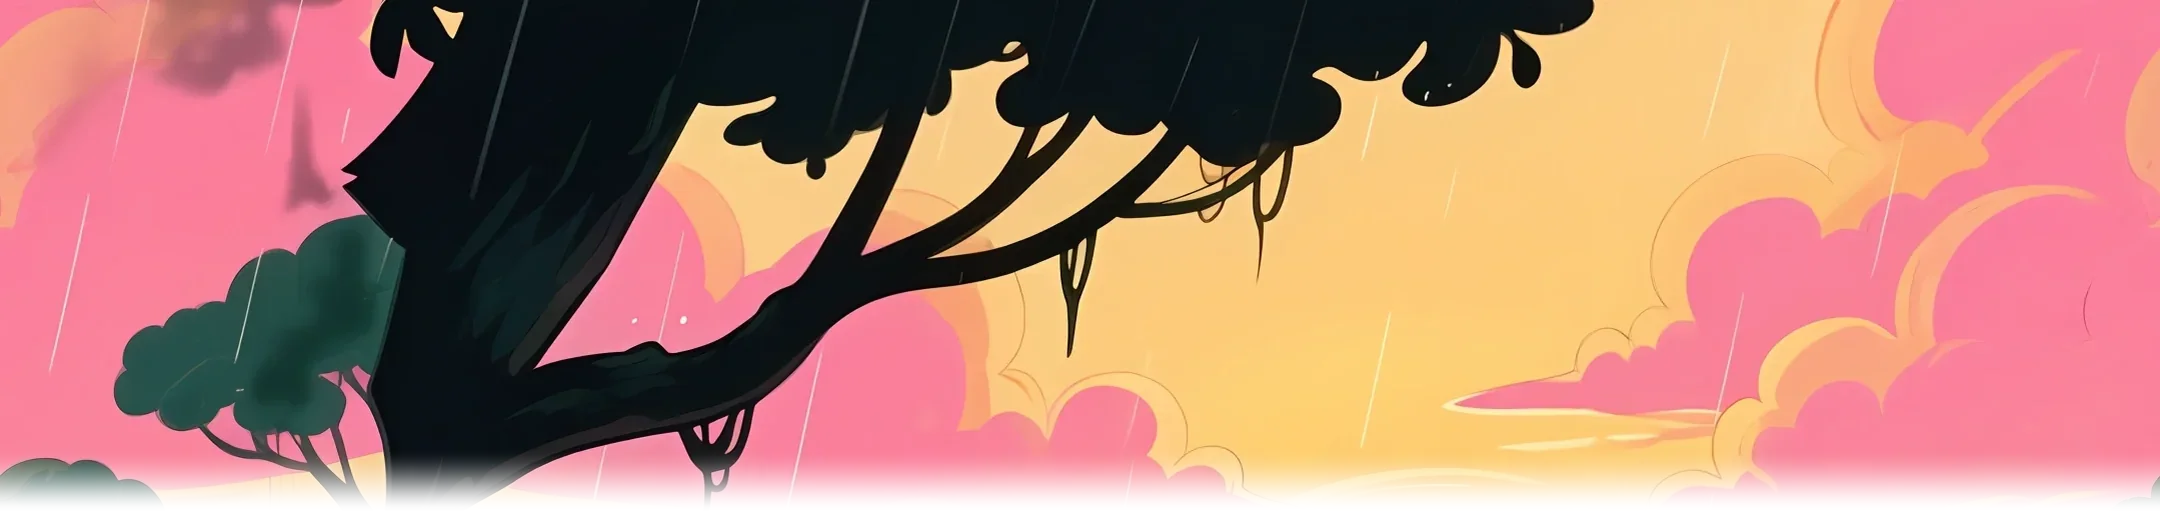
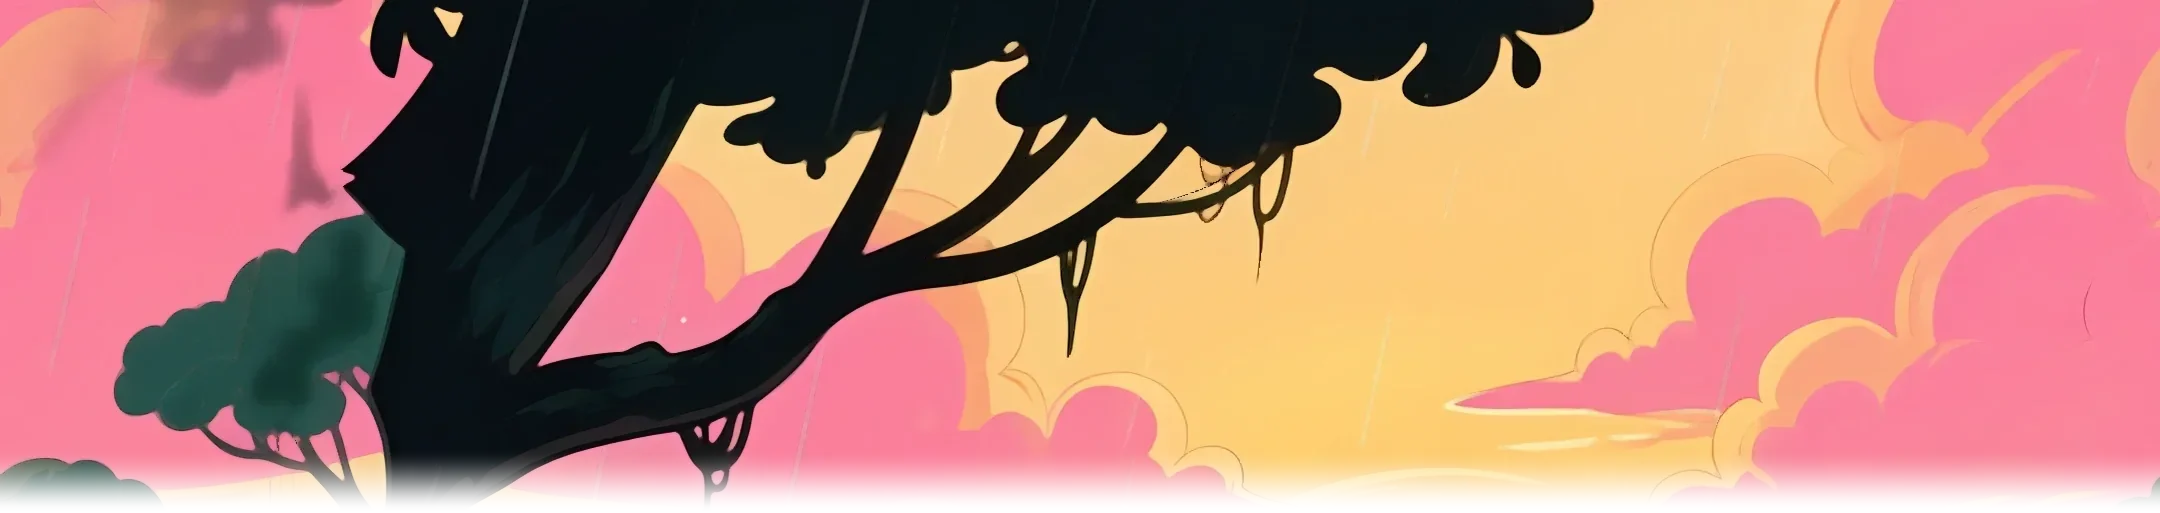
hf-backdrops2: W1 sunrise rain streaks removed (destreak.py); floor.py is the standard in hf-backdrops.md
Claude-Session: https://claude.ai/code/session_01FhBbYNDgYUmrxFZccufR5z

Changed region(s): [[0.5583, 0.3431, 0.5894, 0.3743], [0.1241, 0.8421, 0.1551, 0.8733]]

diff --git a/tools/art/hfbackdrops/destreak.py b/tools/art/hfbackdrops/destreak.py
@@ -1,0 +1,19 @@
+"""Remove thin bright rain streaks a text-to-image take painted into a far strip (W1 sunrise, 2026-11-01): a pixel much brighter than its
+7x7 median (a thin light line) is replaced by the median; broad light (sun, clouds) is left alone.
+    python3 -I tools/art/hfbackdrops/destreak.py <file.webp> [threshold 10]
+"""
+import sys
+import numpy as np
+from PIL import Image, ImageFilter
+p = sys.argv[1]
+th = float(sys.argv[2]) if len(sys.argv) > 2 else 10
+im = Image.open(p)
+mode = im.mode if im.mode in ('RGB', 'RGBA') else 'RGB'
+a = np.asarray(im.convert(mode)).astype(np.float32)
+med = np.asarray(im.convert('RGB').filter(ImageFilter.MedianFilter(7))).astype(np.float32)
+lum = lambda x: x[..., :3] @ np.array([0.299, 0.587, 0.114])
+m = (lum(a) - lum(med)) > th
+m = np.asarray(Image.fromarray((m * 255).astype(np.uint8)).filter(ImageFilter.MaxFilter(3))) > 0
+a[..., :3][m] = med[m]
+Image.fromarray(a.clip(0, 255).astype(np.uint8), mode).save(p, quality=86, method=6)
+print(p, 'pixels replaced', int(m.sum()))

diff --git a/reference/methods/hf-backdrops.md b/reference/methods/hf-backdrops.md
@@ -54,6 +54,8 @@ The strips must look right both upright (412x915) and sideways (915x412).
 - `stageBackdrops.test.ts` checks the neighbours and the FAR_ONLY list: update it.
 
 ## The bar
+- **Every set, new or changed, passes `floor.py` upright** (std >= 31 and the darkest 10% <= 73 on the top 60% of the 412x915
+  frame; night and cave sets by p10 alone). The lead adopted this as the standard on 2026-11-01. A set that fails it does not ship.
 - No seams (look at the join: tile the strip twice), no bands, no notches, no floating pieces.
 - Crowns whole; colours in the world's light; not paler or emptier than what it replaces (lumspread).
 - Pokey clear in every shot.
@@ -69,6 +71,8 @@ The strips must look right both upright (412x915) and sideways (915x412).
 6. Then the CLAUDE.md gates. drawcheck takes about 11 min; the full test suite about 20 min.
 
 ## Pitfalls we already paid for
+- **Rain streaks in a text-to-image far** (W1 sunrise, 11-01): `destreak.py` replaces thin bright lines with their 7x7 median and leaves
+  broad light alone. Better: add "rain" to the negative prompt for any dry mood.
 - **Pink keyed water (W2 near, 10-31):** the start's half-transparent river let magenta through. starts2.py drops alpha < 235 on
   near strips.
 - **Squared notches (W4/W6 near, 10-31)** where paste-up pieces met edge to edge. starts2.py overlaps the pieces with ragged joins
